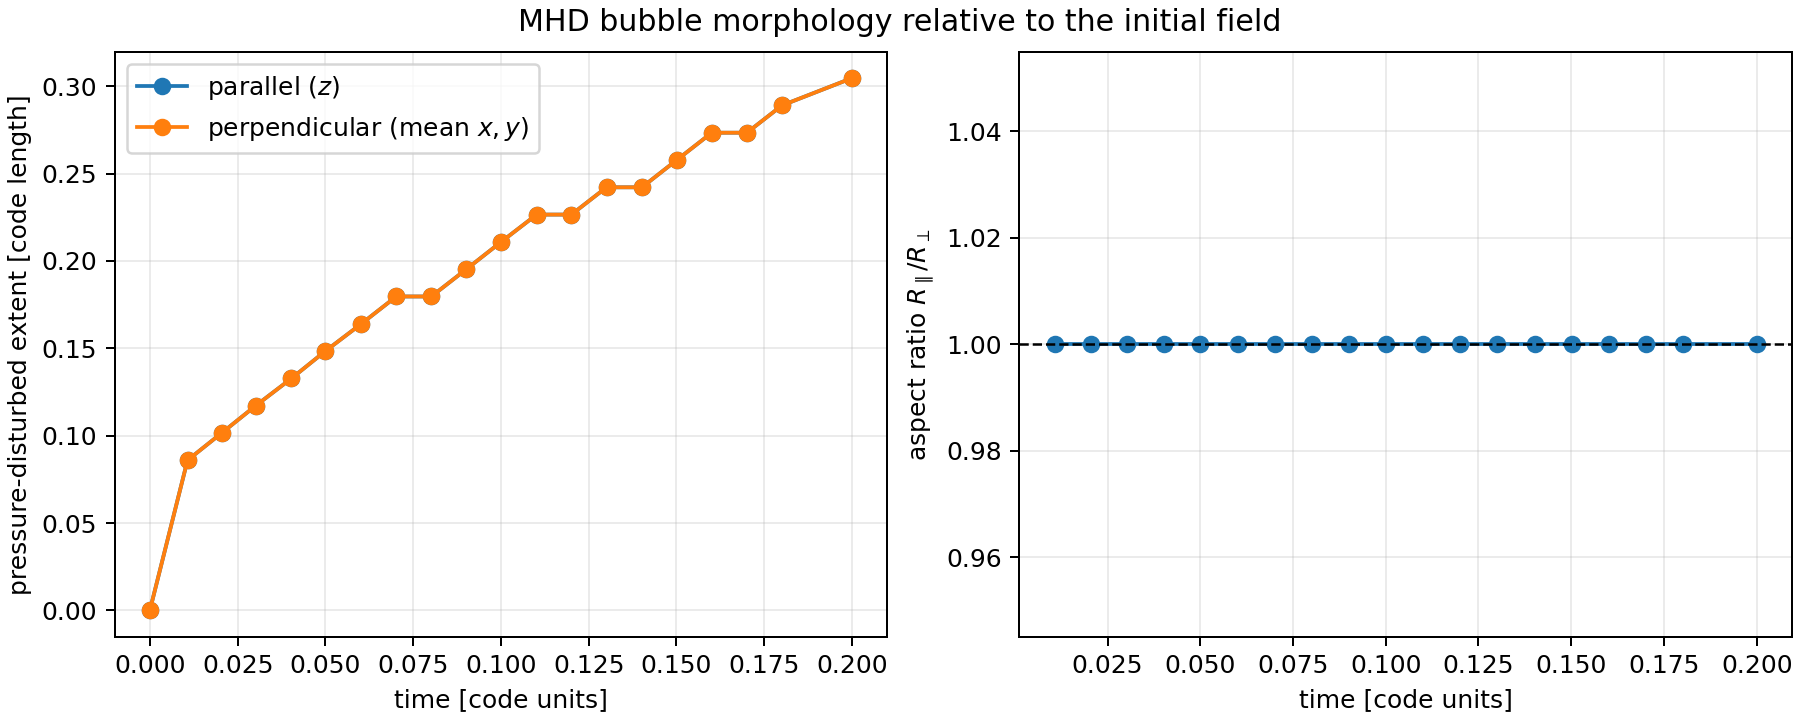
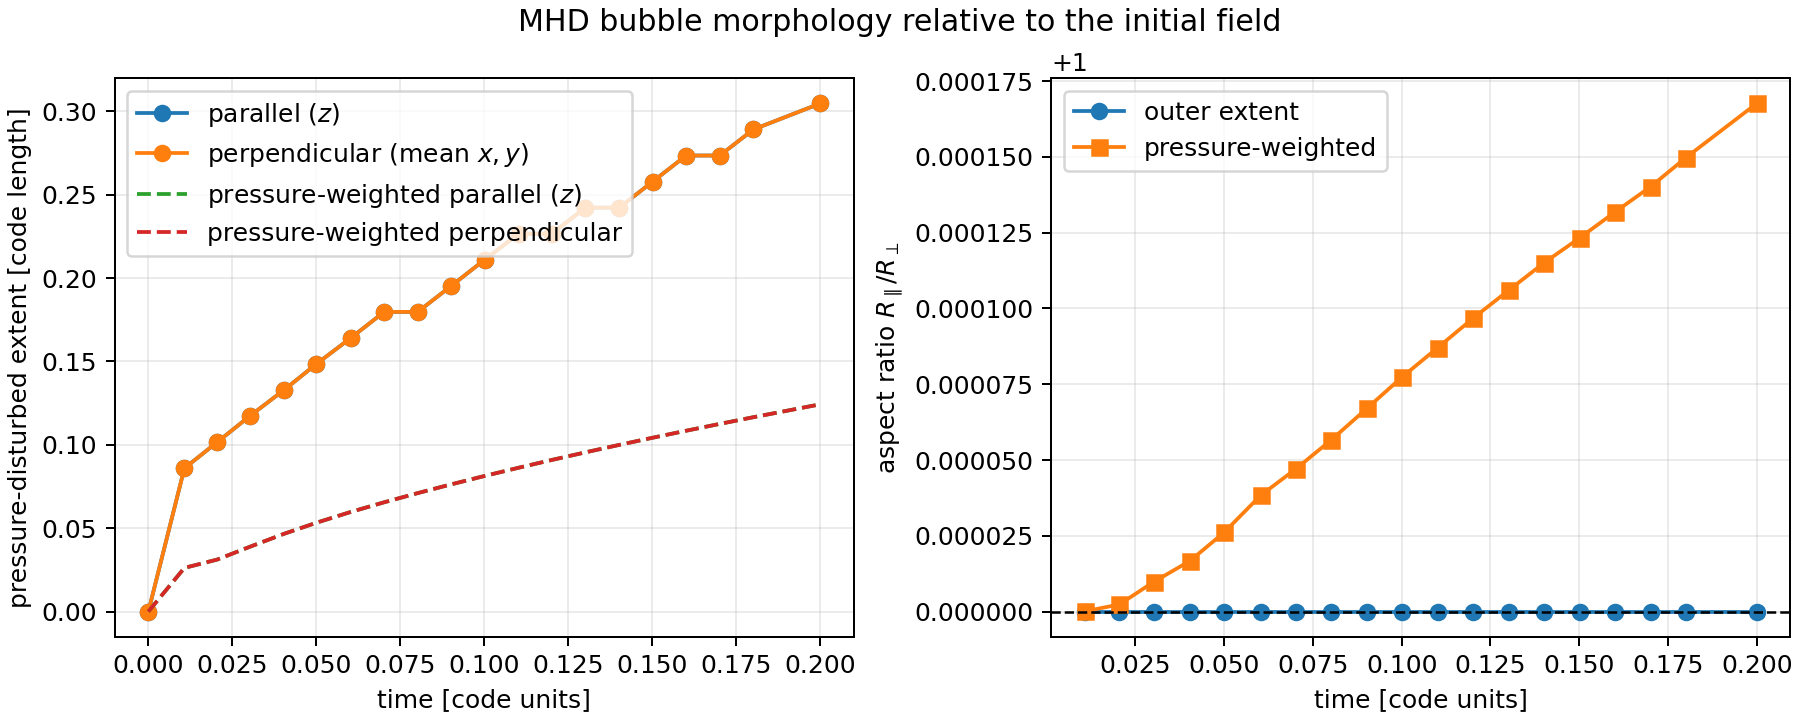
Add weighted MHD morphology comparison

diff --git a/experiments/wind_bubble/compare_mhd_runs.py b/experiments/wind_bubble/compare_mhd_runs.py
@@ -100,7 +100,11 @@ def write_combined_history(
     output_path.parent.mkdir(parents=True, exist_ok=True)
     fieldnames = ("run_label", "source_csv", *REQUIRED_COLUMNS)
     with output_path.open("w", newline="") as handle:
-        writer = csv.DictWriter(handle, fieldnames=fieldnames)
+        writer = csv.DictWriter(
+            handle,
+            fieldnames=fieldnames,
+            lineterminator="\n",
+        )
         writer.writeheader()
         for label, source, rows in histories:
             for row in rows:
@@ -122,9 +126,13 @@ def plot_comparison(
         }
         times = values["time"]
         magnetic_energy = values["mean_magnetic_energy_density"]
+        rms_magnetic_field = np.sqrt(2.0 * magnetic_energy)
+        normalized_divergence = (
+            values["max_abs_magnetic_divergence"] / rms_magnetic_field
+        )
         axes[0, 0].semilogy(
             times,
-            np.maximum(values["max_abs_magnetic_divergence"], 1.0e-30),
+            np.maximum(normalized_divergence, 1.0e-30),
             marker="o",
             label=label,
         )
@@ -153,7 +161,10 @@ def plot_comparison(
             label=label,
         )
 
-    axes[0, 0].set(title="Magnetic divergence", ylabel=r"max $|\nabla\cdot B|$")
+    axes[0, 0].set(
+        title="Field-normalized magnetic divergence",
+        ylabel=r"max $|\nabla\cdot B|/B_{\mathrm{rms}}$ [length$^{-1}$]",
+    )
     axes[0, 1].set(
         title="Magnetic-energy evolution",
         ylabel=r"$\langle B^2/2\rangle / \langle B^2/2\rangle_{t=0}$",

diff --git a/experiments/wind_bubble/run_single_bubble.py b/experiments/wind_bubble/run_single_bubble.py
@@ -489,7 +489,11 @@ def write_mhd_validation_diagnostics(
 
     csv_path.parent.mkdir(parents=True, exist_ok=True)
     with csv_path.open("w", newline="") as handle:
-        writer = csv.DictWriter(handle, fieldnames=list(rows[0]))
+        writer = csv.DictWriter(
+            handle,
+            fieldnames=list(rows[0]),
+            lineterminator="\n",
+        )
         writer.writeheader()
         writer.writerows(rows)
 
